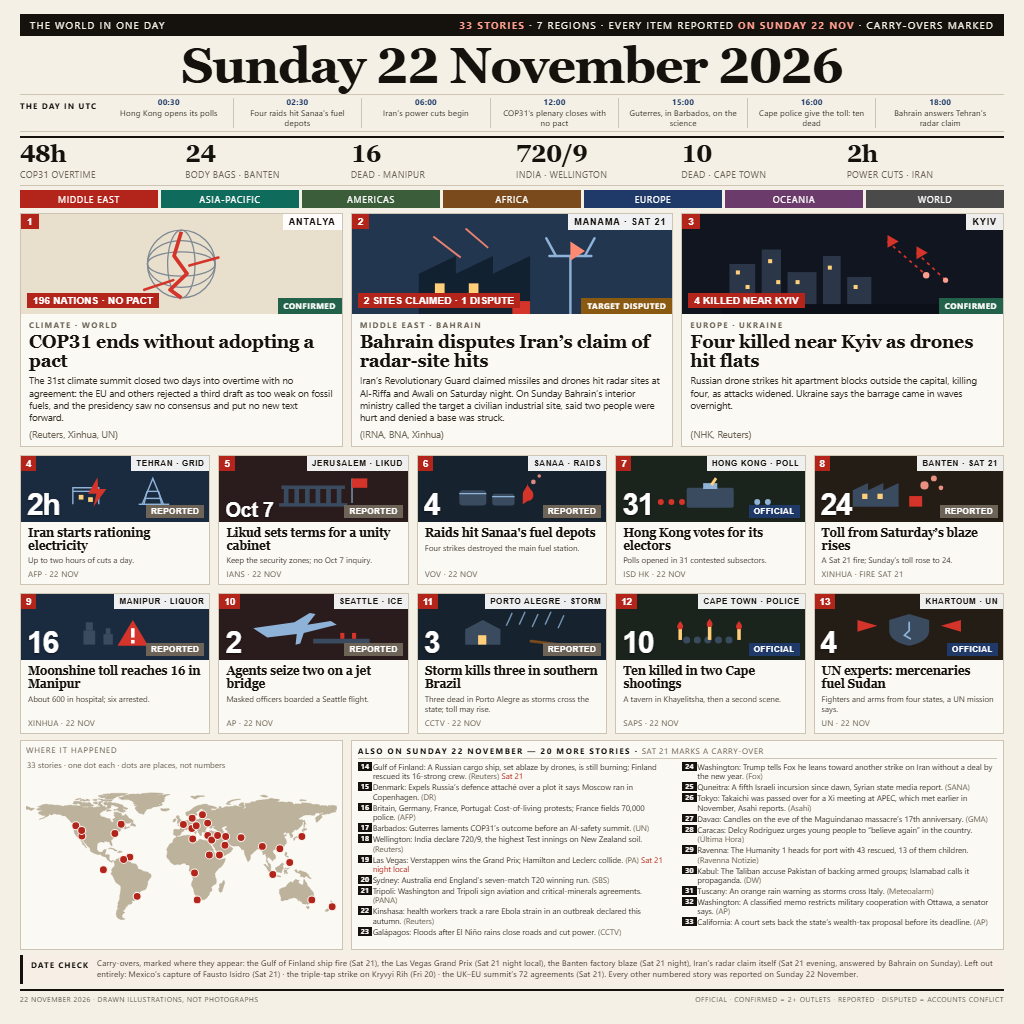
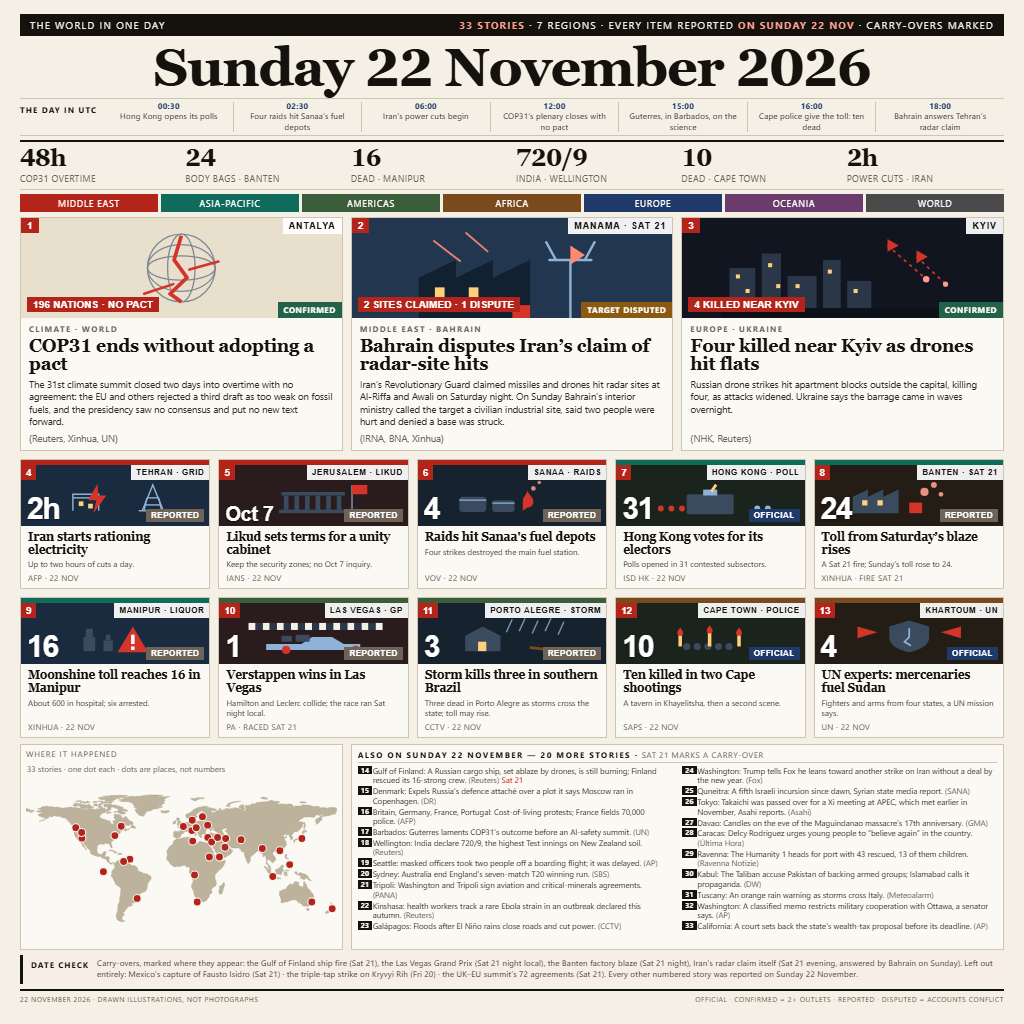
v14: a real story in the loud slots, and panel colour that carries the region
The gate said two things: our loud slots were spent on a two-person arrest while sport sat in the fine
print, and the five panel tints measured out as near-neutral greys (|a*|<=6.3, |b*|<=12.5) that could be
mistaken for the region key. So the Las Vegas GP now takes card 10 (the arrest takes its place in the
list), panels carry a saturated region-coloured top edge, and the height that frees goes to the
masthead.

Changed region(s): [[0.0, 0.0312, 1.0, 0.9375], [0.125, 0.8438, 0.1562, 0.875]]

diff --git a/image/frontpage.html b/image/frontpage.html
@@ -26,9 +26,9 @@
   .bar b { color: #ff9d8f; }
 
   .mast { text-align: center; padding: 5px 0 4px; }
-  .mast h1 { font-family: Georgia, "Times New Roman", serif; font-size: 50px; line-height: 0.98; font-weight: 700;
+  .mast h1 { font-family: Georgia, "Times New Roman", serif; font-size: 54px; line-height: 0.98; font-weight: 700;
              letter-spacing: -1.4px; font-variant-numeric: lining-nums tabular-nums; }
-  .mast .dek { font-family: Georgia, serif; font-size: 12.8px; line-height: 1.35; color: #3b352c; margin-top: 3px; }
+  .mast .dek { font-family: Georgia, serif; font-size: 14px; line-height: 1.35; color: #3b352c; margin-top: 3px; }
   .mast .dek i { color: var(--red); font-style: normal; font-weight: 700; }
 
   .stats { display: grid; grid-template-columns: repeat(6, 1fr); gap: 8px; border-top: 2px solid var(--ink); border-bottom: 1px solid var(--rule); }
@@ -70,7 +70,11 @@
 
   .tiles { display: grid; grid-template-columns: repeat(5, 1fr); gap: 8px; margin-top: 8px; }
   .tile { border: 1px solid var(--rule); background: #fbf9f3; display: flex; flex-direction: column; overflow: hidden; }
-  .tile .scene { position: relative; height: 66px; }
+  .tile .scene { position: relative; height: 66px; border-top: 5px solid #475569; }
+  .tile.me .scene { border-top-color: #b3241b; }
+  .tile.ap .scene { border-top-color: #0f6b5c; }
+  .tile.am .scene { border-top-color: #3c5d3a; }
+  .tile.af .scene { border-top-color: #7a4a1d; }
   .tile .scene svg { width: 100%; height: 100%; display: block; padding: 4px 6px; }
   .tile .n { position: absolute; left: 0; top: 0; background: var(--red); color: #fff; font: 700 9.5px Arial; padding: 2px 5px; }
   .tile .st { position: absolute; right: 5px; bottom: 4px; font: 700 7.8px Arial; letter-spacing: 0.08em;
@@ -284,11 +288,11 @@
       <div class="src">Xinhua · 22 Nov</div>
     </div>
     <div class="tile am">
-      <div class="scene" style="background:#2a1b1c"><svg viewBox="0 0 300 64" preserveAspectRatio="xMidYMid meet"><path d="M48 34 l70 -10 l26 -16 l10 2 l-14 18 l40 -6 l10 6 l-56 14 l-6 18 l-8 2 l2 -18 l-50 6z" fill="#8fb2d8"/><path d="M150 52 h96 v8 h-96z" fill="#3a4a5f"/><g fill="#d4342a"><rect x="196" y="42" width="7" height="10"/><rect x="216" y="42" width="7" height="10"/></g></svg>
-        <span class="n">10</span><span class="rg">Seattle · ICE</span><span class="st reported">Reported</span><span class="big">2</span></div>
-      <h3>Agents seize two on a jet bridge</h3>
-      <p class="line">Masked officers boarded a Seattle flight.</p>
-      <div class="src">AP · 22 Nov</div>
+      <div class="scene" style="background:#2a1b1c"><svg viewBox="0 0 300 64" preserveAspectRatio="xMidYMid meet"><path d="M70 50 h60 l18 -12 h34 l20 12 h28 v10 h-160z" fill="#8fb2d8"/><g fill="#3a4a5f"><rect x="96" y="36" width="18" height="10" rx="2"/><rect x="120" y="34" width="24" height="12" rx="2"/></g><g fill="#d4342a"><circle cx="104" cy="60" r="7"/><circle cx="222" cy="60" r="7"/></g><g fill="#f4f0e6"><rect x="40" y="14" width="12" height="12"/><rect x="64" y="14" width="12" height="12"/><rect x="88" y="14" width="12" height="12"/><rect x="112" y="14" width="12" height="12"/><rect x="136" y="14" width="12" height="12"/><rect x="160" y="14" width="12" height="12"/><rect x="184" y="14" width="12" height="12"/><rect x="208" y="14" width="12" height="12"/><rect x="232" y="14" width="12" height="12"/><rect x="256" y="14" width="12" height="12"/></g><g fill="#2b3648"><rect x="52" y="14" width="12" height="12"/><rect x="76" y="14" width="12" height="12"/><rect x="100" y="14" width="12" height="12"/><rect x="124" y="14" width="12" height="12"/><rect x="148" y="14" width="12" height="12"/><rect x="172" y="14" width="12" height="12"/><rect x="196" y="14" width="12" height="12"/><rect x="220" y="14" width="12" height="12"/><rect x="244" y="14" width="12" height="12"/></g></svg>
+        <span class="n">10</span><span class="rg">Las Vegas · GP</span><span class="st reported">Reported</span><span class="big">1</span></div>
+      <h3>Verstappen wins in Las Vegas</h3>
+      <p class="line">Hamilton and Leclerc collide; the race ran Sat night local.</p>
+      <div class="src">PA · raced Sat 21</div>
     </div>
     <div class="tile am">
       <div class="scene" style="background:#16232e"><svg viewBox="0 0 300 64" preserveAspectRatio="xMidYMid meet"><path d="M70 62 V36 l30 -16 l30 16 v26z" fill="#3a4a5f"/><rect x="92" y="46" width="14" height="16" fill="#ffcf7a"/><g stroke="#8fb2d8" stroke-width="2.4" opacity="0.8"><path d="M150 8 l-10 22"/><path d="M172 6 l-10 22"/><path d="M194 10 l-10 22"/><path d="M216 6 l-10 22"/><path d="M238 12 l-10 22"/></g><path d="M182 56 l48 6" stroke="#7a4a1d" stroke-width="5" stroke-linecap="round"/></svg>
@@ -331,7 +335,7 @@
         <li><b>16</b>Britain, Germany, France, Portugal: Cost-of-living protests; France fields 70,000 police. <i>(AFP)</i></li>
         <li><b>17</b>Barbados: Guterres laments COP31’s outcome before an AI-safety summit. <i>(UN)</i></li>
         <li><b>18</b>Wellington: India declare 720/9, the highest Test innings on New Zealand soil. <i>(Reuters)</i></li>
-        <li><b>19</b>Las Vegas: Verstappen wins the Grand Prix; Hamilton and Leclerc collide. <i>(PA)</i> <i class="sat">Sat 21 night local</i></li>
+        <li><b>19</b>Seattle: masked officers took two people off a boarding flight; it was delayed. <i>(AP)</i></li>
         <li><b>20</b>Sydney: Australia end England’s seven-match T20 winning run. <i>(SBS)</i></li>
         <li><b>21</b>Tripoli: Washington and Tripoli sign aviation and critical-minerals agreements. <i>(PANA)</i></li>
         <li><b>22</b>Kinshasa: health workers track a rare Ebola strain in an outbreak declared this autumn. <i>(Reuters)</i></li>

diff --git a/image/frontpage.raw.html b/image/frontpage.raw.html
@@ -26,9 +26,9 @@
   .bar b { color: #ff9d8f; }
 
   .mast { text-align: center; padding: 5px 0 4px; }
-  .mast h1 { font-family: Georgia, "Times New Roman", serif; font-size: 50px; line-height: 0.98; font-weight: 700;
+  .mast h1 { font-family: Georgia, "Times New Roman", serif; font-size: 54px; line-height: 0.98; font-weight: 700;
              letter-spacing: -1.4px; font-variant-numeric: lining-nums tabular-nums; }
-  .mast .dek { font-family: Georgia, serif; font-size: 12.8px; line-height: 1.35; color: #3b352c; margin-top: 3px; }
+  .mast .dek { font-family: Georgia, serif; font-size: 14px; line-height: 1.35; color: #3b352c; margin-top: 3px; }
   .mast .dek i { color: var(--red); font-style: normal; font-weight: 700; }
 
   .stats { display: grid; grid-template-columns: repeat(6, 1fr); gap: 8px; border-top: 2px solid var(--ink); border-bottom: 1px solid var(--rule); }
@@ -70,7 +70,11 @@
 
   .tiles { display: grid; grid-template-columns: repeat(5, 1fr); gap: 8px; margin-top: 8px; }
   .tile { border: 1px solid var(--rule); background: #fbf9f3; display: flex; flex-direction: column; overflow: hidden; }
-  .tile .scene { position: relative; height: 66px; }
+  .tile .scene { position: relative; height: 66px; border-top: 5px solid #475569; }
+  .tile.me .scene { border-top-color: #b3241b; }
+  .tile.ap .scene { border-top-color: #0f6b5c; }
+  .tile.am .scene { border-top-color: #3c5d3a; }
+  .tile.af .scene { border-top-color: #7a4a1d; }
   .tile .scene svg { width: 100%; height: 100%; display: block; padding: 4px 6px; }
   .tile .n { position: absolute; left: 0; top: 0; background: var(--red); color: #fff; font: 700 9.5px Arial; padding: 2px 5px; }
   .tile .st { position: absolute; right: 5px; bottom: 4px; font: 700 7.8px Arial; letter-spacing: 0.08em;
@@ -284,11 +288,11 @@
       <div class="src">Xinhua · 22 Nov</div>
     </div>
     <div class="tile am">
-      <div class="scene" style="background:#2a1b1c"><svg viewBox="0 0 300 64" preserveAspectRatio="xMidYMid meet"><path d="M48 34 l70 -10 l26 -16 l10 2 l-14 18 l40 -6 l10 6 l-56 14 l-6 18 l-8 2 l2 -18 l-50 6z" fill="#8fb2d8"/><path d="M150 52 h96 v8 h-96z" fill="#3a4a5f"/><g fill="#d4342a"><rect x="196" y="42" width="7" height="10"/><rect x="216" y="42" width="7" height="10"/></g></svg>
-        <span class="n">10</span><span class="rg">Seattle · ICE</span><span class="st reported">Reported</span><span class="big">2</span></div>
-      <h3>Agents seize two on a jet bridge</h3>
-      <p class="line">Masked officers boarded a Seattle flight.</p>
-      <div class="src">AP · 22 Nov</div>
+      <div class="scene" style="background:#2a1b1c"><svg viewBox="0 0 300 64" preserveAspectRatio="xMidYMid meet"><path d="M70 50 h60 l18 -12 h34 l20 12 h28 v10 h-160z" fill="#8fb2d8"/><g fill="#3a4a5f"><rect x="96" y="36" width="18" height="10" rx="2"/><rect x="120" y="34" width="24" height="12" rx="2"/></g><g fill="#d4342a"><circle cx="104" cy="60" r="7"/><circle cx="222" cy="60" r="7"/></g><g fill="#f4f0e6"><rect x="40" y="14" width="12" height="12"/><rect x="64" y="14" width="12" height="12"/><rect x="88" y="14" width="12" height="12"/><rect x="112" y="14" width="12" height="12"/><rect x="136" y="14" width="12" height="12"/><rect x="160" y="14" width="12" height="12"/><rect x="184" y="14" width="12" height="12"/><rect x="208" y="14" width="12" height="12"/><rect x="232" y="14" width="12" height="12"/><rect x="256" y="14" width="12" height="12"/></g><g fill="#2b3648"><rect x="52" y="14" width="12" height="12"/><rect x="76" y="14" width="12" height="12"/><rect x="100" y="14" width="12" height="12"/><rect x="124" y="14" width="12" height="12"/><rect x="148" y="14" width="12" height="12"/><rect x="172" y="14" width="12" height="12"/><rect x="196" y="14" width="12" height="12"/><rect x="220" y="14" width="12" height="12"/><rect x="244" y="14" width="12" height="12"/></g></svg>
+        <span class="n">10</span><span class="rg">Las Vegas · GP</span><span class="st reported">Reported</span><span class="big">1</span></div>
+      <h3>Verstappen wins in Las Vegas</h3>
+      <p class="line">Hamilton and Leclerc collide; the race ran Sat night local.</p>
+      <div class="src">PA · raced Sat 21</div>
     </div>
     <div class="tile am">
       <div class="scene" style="background:#16232e"><svg viewBox="0 0 300 64" preserveAspectRatio="xMidYMid meet"><path d="M70 62 V36 l30 -16 l30 16 v26z" fill="#3a4a5f"/><rect x="92" y="46" width="14" height="16" fill="#ffcf7a"/><g stroke="#8fb2d8" stroke-width="2.4" opacity="0.8"><path d="M150 8 l-10 22"/><path d="M172 6 l-10 22"/><path d="M194 10 l-10 22"/><path d="M216 6 l-10 22"/><path d="M238 12 l-10 22"/></g><path d="M182 56 l48 6" stroke="#7a4a1d" stroke-width="5" stroke-linecap="round"/></svg>
@@ -331,7 +335,7 @@
         <li><b>16</b>Britain, Germany, France, Portugal: Cost-of-living protests; France fields 70,000 police. <i>(AFP)</i></li>
         <li><b>17</b>Barbados: Guterres laments COP31’s outcome before an AI-safety summit. <i>(UN)</i></li>
         <li><b>18</b>Wellington: India declare 720/9, the highest Test innings on New Zealand soil. <i>(Reuters)</i></li>
-        <li><b>19</b>Las Vegas: Verstappen wins the Grand Prix; Hamilton and Leclerc collide. <i>(PA)</i> <i class="sat">Sat 21 night local</i></li>
+        <li><b>19</b>Seattle: masked officers took two people off a boarding flight; it was delayed. <i>(AP)</i></li>
         <li><b>20</b>Sydney: Australia end England’s seven-match T20 winning run. <i>(SBS)</i></li>
         <li><b>21</b>Tripoli: Washington and Tripoli sign aviation and critical-minerals agreements. <i>(PANA)</i></li>
         <li><b>22</b>Kinshasa: health workers track a rare Ebola strain in an outbreak declared this autumn. <i>(Reuters)</i></li>
